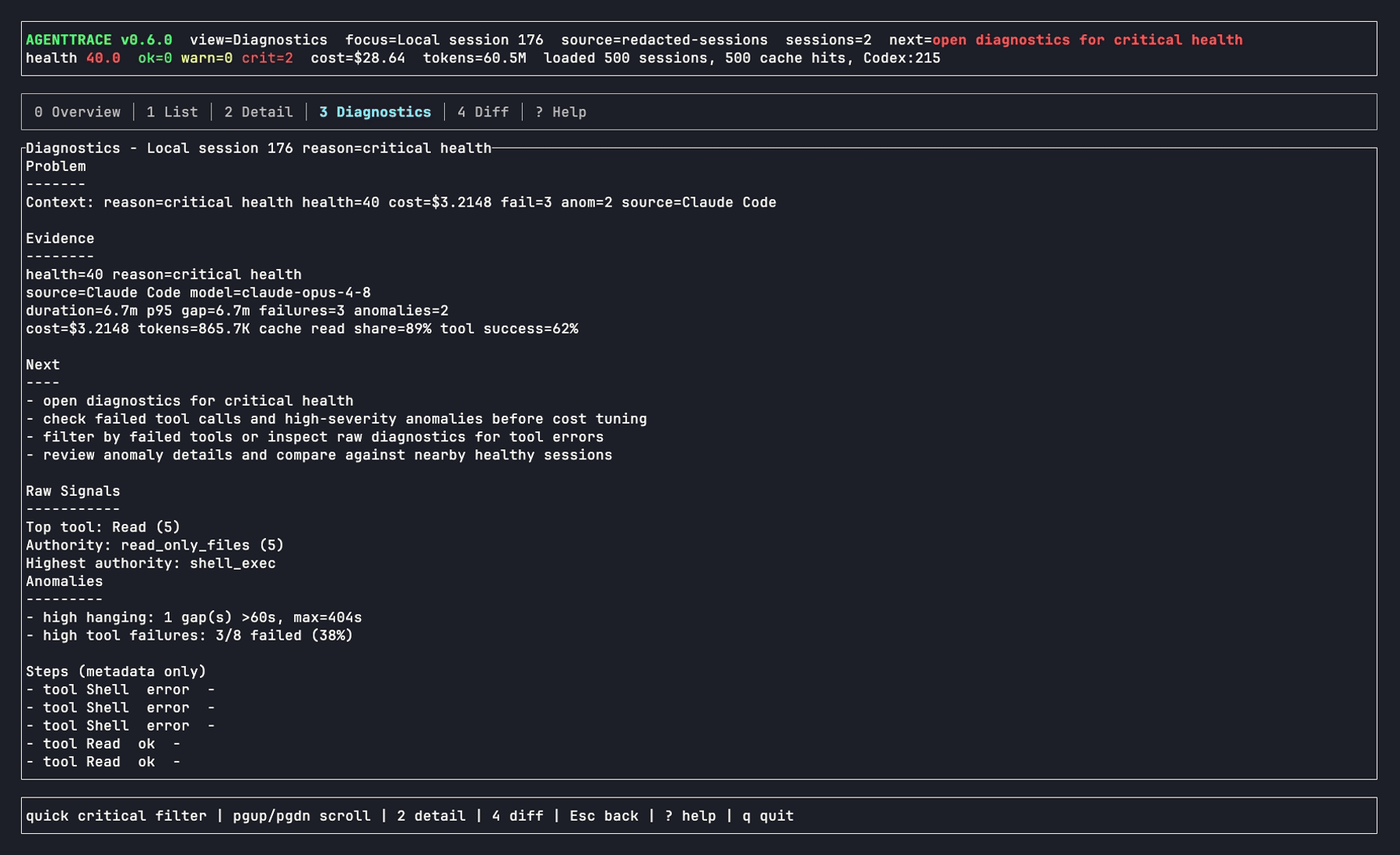
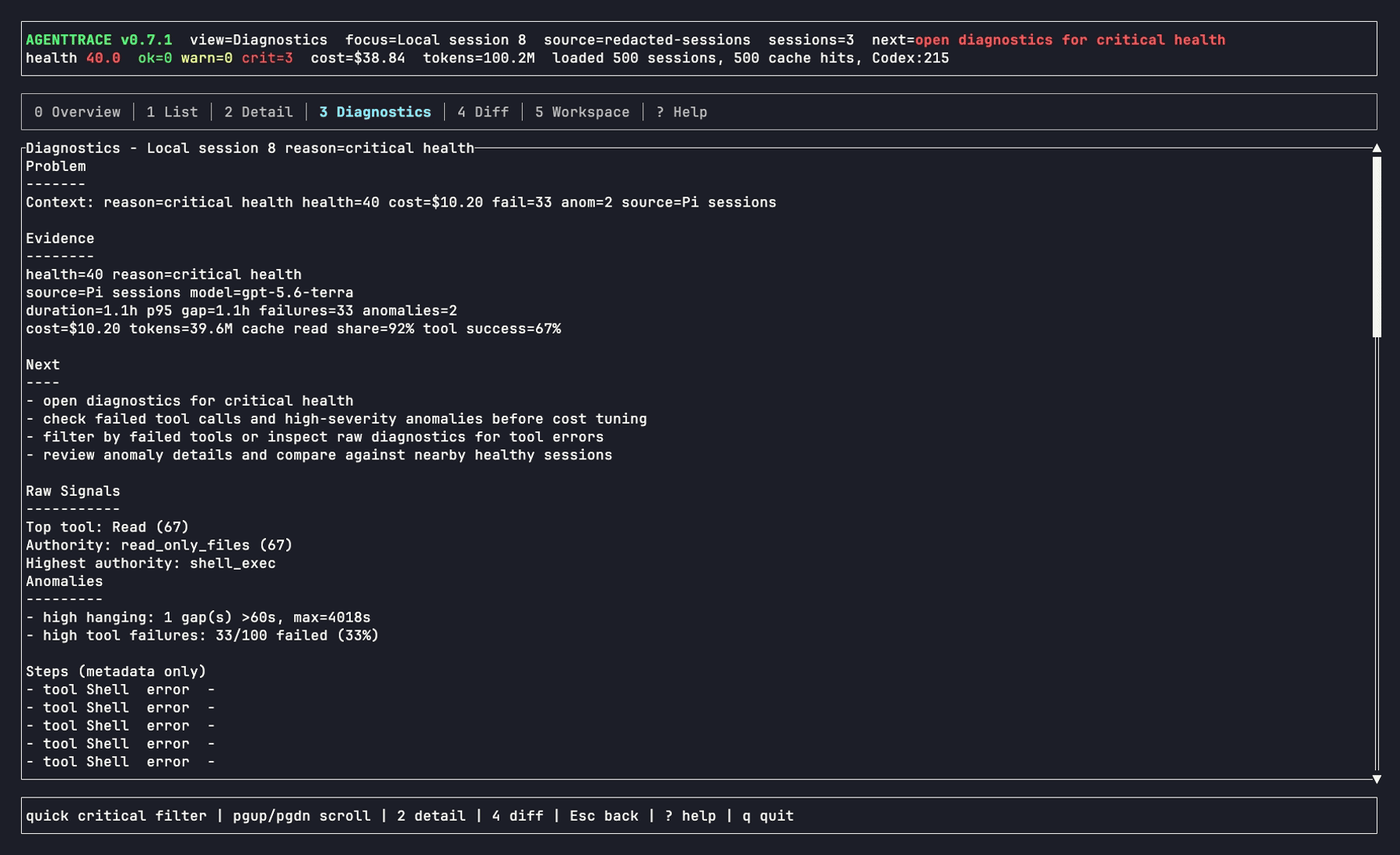
release: prepare v0.7.1 assets and metadata
Merge the validated v0.7.1 release metadata, redacted real-local-run assets, bilingual README, and Pages updates.

diff --git a/site/demo-report.html b/site/demo-report.html
@@ -18,136 +18,140 @@ section{border:1px solid var(--line);background:rgba(16,20,25,.78);padding:20px;
 <main>
 <header>
 <div><div class="brand">agenttrace</div><h1>AI agent session overview</h1><p>Static report generated from local coding-agent traces.</p></div>
-<div class="meta">v0.7.0<br>500 Sessions<br><code>agenttrace --overview -f html</code></div>
+<div class="meta">v0.7.1<br>500 Sessions<br><code>agenttrace --overview -f html</code></div>
 </header>
 <div class="grid" aria-label="summary metrics">
-<div class="metric"><span>Sessions</span><strong>500</strong><p>182 Healthy / 316 Warning / 2 Critical</p></div>
-<div class="metric"><span>Total tokens</span><strong>4.0B</strong><p>+ live</p></div>
-<div class="metric"><span>Average health</span><strong>77.7</strong><p>Fleet quality score</p></div>
-<div class="metric"><span>Total estimated cost</span><strong>$2.6K</strong><p>Estimated session cost</p></div>
-<div class="metric "><span>Tool failures</span><strong>469/16066</strong><p>2.9% failure rate</p></div>
+<div class="metric"><span>Sessions</span><strong>500</strong><p>190 Healthy / 307 Warning / 3 Critical</p></div>
+<div class="metric"><span>Total tokens</span><strong>4.7B</strong><p>+ live</p></div>
+<div class="metric"><span>Average health</span><strong>77.9</strong><p>Fleet quality score</p></div>
+<div class="metric"><span>Total estimated cost</span><strong>$2.7K</strong><p>Estimated session cost</p></div>
+<div class="metric "><span>Tool failures</span><strong>544/16112</strong><p>3.4% failure rate</p></div>
 </div>
 <section><h2>Tool authority</h2>
 <p><strong>Highest category</strong>: <code>shell_exec</code></p>
 <table><caption>Authority category counts</caption><thead><tr><th>Authority category</th><th class="num">Count</th></tr></thead><tbody>
-<tr><td><code>read_only_files</code></td><td class="num">15597</td></tr>
-<tr><td><code>shell_exec</code></td><td class="num">469</td></tr>
+<tr><td><code>read_only_files</code></td><td class="num">15568</td></tr>
+<tr><td><code>shell_exec</code></td><td class="num">544</td></tr>
 </tbody></table>
 <p><strong>High-authority tools</strong>: <code>Shell</code></p>
 </section>
 <section><h2>Possible cost drivers</h2><table><thead><tr><th>Session</th><th>Evidence</th></tr></thead><tbody>
-<tr><td>Local session 1</td><td>possible driver: 801.4K tokens per assistant turn across 1 turn(s)</td></tr>
-<tr><td>Local session 2</td><td>possible driver: 11.1M tokens per assistant turn across 11 turn(s)</td></tr>
-<tr><td>Local session 3</td><td>possible driver: 2.5M tokens per assistant turn across 5 turn(s)</td></tr>
-<tr><td>Local session 4</td><td>possible driver: 1.5M tokens per assistant turn across 4 turn(s)</td></tr>
-<tr><td>Local session 5</td><td>possible driver: 4.7M tokens per assistant turn across 1 turn(s)</td></tr>
-<tr><td>Local session 6</td><td>possible driver: 1.2M tokens per assistant turn across 6 turn(s)</td></tr>
-<tr><td>Local session 8</td><td>possible driver: 3.0M tokens per assistant turn across 10 turn(s)</td></tr>
-<tr><td>Local session 9</td><td>possible driver: 32.1M tokens per assistant turn across 1 turn(s)</td></tr>
+<tr><td>Local session 2</td><td>possible driver: 100.0K tokens per assistant turn across 100 turn(s)</td></tr>
+<tr><td>Local session 4</td><td>possible driver: 339.9K tokens per assistant turn across 100 turn(s)</td></tr>
+<tr><td>Local session 6</td><td>possible driver: 57.2K tokens per assistant turn across 34 turn(s)</td></tr>
+<tr><td>Local session 8</td><td>possible driver: 33/100 failed tool result(s) (33.0%)</td></tr>
+<tr><td>Local session 9</td><td>possible driver: 697.8K tokens per assistant turn across 1 turn(s)</td></tr>
+<tr><td>Local session 12</td><td>possible driver: 234.9K tokens per assistant turn across 100 turn(s)</td></tr>
+<tr><td>Local session 14</td><td>possible driver: 62.4K tokens per assistant turn across 18 turn(s)</td></tr>
+<tr><td>Local session 15</td><td>possible driver: 23.8M tokens per assistant turn across 7 turn(s)</td></tr>
 </tbody></table></section>
-<section><h2>Health Trend</h2><p>Health score stable at 72</p></section>
+<section><h2>Health Trend</h2><p>Declining: 88→88</p></section>
 <section><h2>Incident timeline</h2>
 <table><thead><tr><th>Session</th><th>Signal</th><th>Evidence</th><th>Severity</th></tr></thead><tbody>
-<tr><td>Local session 1</td><td>Last milestone</td><td>1 assistant turn(s) completed over 6.7m</td><td>LOW</td></tr>
-<tr><td>Local session 1</td><td>Longest idle gap</td><td>404.0s gap between recorded events</td><td>HIGH</td></tr>
-<tr><td>Local session 1</td><td>Touched surface</td><td>1 unique tool(s), 1 total calls; top tool Read x1</td><td>LOW</td></tr>
-<tr><td>Local session 1</td><td>Burn divergence</td><td>801.4K tokens per assistant turn across 1 turn(s)</td><td>MEDIUM</td></tr>
-<tr><td>Local session 2</td><td>Last milestone</td><td>11 assistant turn(s) completed over 4h 41m</td><td>LOW</td></tr>
-<tr><td>Local session 2</td><td>Longest idle gap</td><td>16916.0s gap between recorded events</td><td>HIGH</td></tr>
-<tr><td>Local session 2</td><td>Touched surface</td><td>1 unique tool(s), 11 total calls; top tool Read x11</td><td>LOW</td></tr>
-<tr><td>Local session 2</td><td>Burn divergence</td><td>11.1M tokens per assistant turn across 11 turn(s)</td><td>MEDIUM</td></tr>
-<tr><td>Local session 3</td><td>Last milestone</td><td>5 assistant turn(s) completed over 38.8m</td><td>LOW</td></tr>
-<tr><td>Local session 3</td><td>Longest idle gap</td><td>2327.0s gap between recorded events</td><td>HIGH</td></tr>
-<tr><td>Local session 3</td><td>Touched surface</td><td>1 unique tool(s), 5 total calls; top tool Read x5</td><td>LOW</td></tr>
-<tr><td>Local session 3</td><td>Burn divergence</td><td>2.5M tokens per assistant turn across 5 turn(s)</td><td>MEDIUM</td></tr>
-<tr><td>Local session 4</td><td>Last milestone</td><td>4 assistant turn(s) completed over 51.2m</td><td>LOW</td></tr>
-<tr><td>Local session 4</td><td>Longest idle gap</td><td>3073.0s gap between recorded events</td><td>HIGH</td></tr>
-<tr><td>Local session 4</td><td>Touched surface</td><td>1 unique tool(s), 4 total calls; top tool Read x4</td><td>LOW</td></tr>
-<tr><td>Local session 4</td><td>Burn divergence</td><td>1.5M tokens per assistant turn across 4 turn(s)</td><td>MEDIUM</td></tr>
-<tr><td>Local session 5</td><td>Last milestone</td><td>1 assistant turn(s) completed over 5h 15m</td><td>LOW</td></tr>
-<tr><td>Local session 5</td><td>Longest idle gap</td><td>18935.0s gap between recorded events</td><td>HIGH</td></tr>
-<tr><td>Local session 5</td><td>Burn divergence</td><td>4.7M tokens per assistant turn across 1 turn(s)</td><td>MEDIUM</td></tr>
-<tr><td>Local session 6</td><td>Last milestone</td><td>6 assistant turn(s) completed over 30.7m</td><td>LOW</td></tr>
-<tr><td>Local session 6</td><td>Longest idle gap</td><td>1840.0s gap between recorded events</td><td>HIGH</td></tr>
-<tr><td>Local session 6</td><td>Touched surface</td><td>1 unique tool(s), 6 total calls; top tool Read x6</td><td>LOW</td></tr>
-<tr><td>Local session 6</td><td>Burn divergence</td><td>1.2M tokens per assistant turn across 6 turn(s)</td><td>MEDIUM</td></tr>
-<tr><td>Local session 7</td><td>Last milestone</td><td>1 assistant turn(s) completed over 2.3m</td><td>LOW</td></tr>
-<tr><td>Local session 7</td><td>Longest idle gap</td><td>140.0s gap between recorded events</td><td>MEDIUM</td></tr>
-<tr><td>Local session 8</td><td>Last milestone</td><td>10 assistant turn(s) completed over 1h 49m</td><td>LOW</td></tr>
-<tr><td>Local session 8</td><td>Longest idle gap</td><td>6545.0s gap between recorded events</td><td>HIGH</td></tr>
-<tr><td>Local session 8</td><td>Touched surface</td><td>1 unique tool(s), 10 total calls; top tool Read x10</td><td>LOW</td></tr>
-<tr><td>Local session 8</td><td>Burn divergence</td><td>3.0M tokens per assistant turn across 10 turn(s)</td><td>MEDIUM</td></tr>
+<tr><td>Local session 1</td><td>Last milestone</td><td>9 assistant turn(s) completed over 2.0m</td><td>LOW</td></tr>
+<tr><td>Local session 1</td><td>Longest idle gap</td><td>118.0s gap between recorded events</td><td>MEDIUM</td></tr>
+<tr><td>Local session 1</td><td>Touched surface</td><td>1 unique tool(s), 9 total calls; top tool Read x9</td><td>LOW</td></tr>
+<tr><td>Local session 2</td><td>Last milestone</td><td>100 assistant turn(s) completed over 48.4m</td><td>LOW</td></tr>
+<tr><td>Local session 2</td><td>Longest idle gap</td><td>2902.0s gap between recorded events</td><td>HIGH</td></tr>
+<tr><td>Local session 2</td><td>Failure loop</td><td>13 failed tool result(s) out of 100 (13.0%)</td><td>MEDIUM</td></tr>
+<tr><td>Local session 2</td><td>Touched surface</td><td>2 unique tool(s), 100 total calls; top tool Read x87</td><td>LOW</td></tr>
+<tr><td>Local session 2</td><td>Burn divergence</td><td>100.0K tokens per assistant turn across 100 turn(s)</td><td>MEDIUM</td></tr>
+<tr><td>Local session 3</td><td>Last milestone</td><td>14 assistant turn(s) completed over 49s</td><td>LOW</td></tr>
+<tr><td>Local session 3</td><td>Longest idle gap</td><td>49.0s gap between recorded events</td><td>LOW</td></tr>
+<tr><td>Local session 3</td><td>Touched surface</td><td>1 unique tool(s), 14 total calls; top tool Read x14</td><td>LOW</td></tr>
+<tr><td>Local session 4</td><td>Last milestone</td><td>100 assistant turn(s) completed over 1h 14m</td><td>LOW</td></tr>
+<tr><td>Local session 4</td><td>Longest idle gap</td><td>4440.0s gap between recorded events</td><td>HIGH</td></tr>
+<tr><td>Local session 4</td><td>Failure loop</td><td>14 failed tool result(s) out of 100 (14.0%)</td><td>MEDIUM</td></tr>
+<tr><td>Local session 4</td><td>Touched surface</td><td>2 unique tool(s), 100 total calls; top tool Read x86</td><td>LOW</td></tr>
+<tr><td>Local session 4</td><td>Burn divergence</td><td>339.9K tokens per assistant turn across 100 turn(s)</td><td>MEDIUM</td></tr>
+<tr><td>Local session 5</td><td>Last milestone</td><td>26 assistant turn(s) completed over 1.7m</td><td>LOW</td></tr>
+<tr><td>Local session 5</td><td>Longest idle gap</td><td>101.0s gap between recorded events</td><td>MEDIUM</td></tr>
+<tr><td>Local session 5</td><td>Touched surface</td><td>2 unique tool(s), 26 total calls; top tool Read x25</td><td>LOW</td></tr>
+<tr><td>Local session 5</td><td>Burn divergence</td><td>12.5K tokens per assistant turn across 26 turn(s)</td><td>MEDIUM</td></tr>
+<tr><td>Local session 6</td><td>Last milestone</td><td>34 assistant turn(s) completed over 7.9m</td><td>LOW</td></tr>
+<tr><td>Local session 6</td><td>Longest idle gap</td><td>473.0s gap between recorded events</td><td>HIGH</td></tr>
+<tr><td>Local session 6</td><td>Failure loop</td><td>5 failed tool result(s) out of 34 (14.7%)</td><td>MEDIUM</td></tr>
+<tr><td>Local session 6</td><td>Touched surface</td><td>2 unique tool(s), 34 total calls; top tool Read x29</td><td>LOW</td></tr>
+<tr><td>Local session 6</td><td>Burn divergence</td><td>57.2K tokens per assistant turn across 34 turn(s)</td><td>MEDIUM</td></tr>
+<tr><td>Local session 7</td><td>Last milestone</td><td>51 assistant turn(s) completed over 1.7m</td><td>LOW</td></tr>
+<tr><td>Local session 7</td><td>Longest idle gap</td><td>102.0s gap between recorded events</td><td>MEDIUM</td></tr>
+<tr><td>Local session 7</td><td>Touched surface</td><td>1 unique tool(s), 51 total calls; top tool Read x51</td><td>LOW</td></tr>
+<tr><td>Local session 8</td><td>Last milestone</td><td>100 assistant turn(s) completed over 1h 6m</td><td>LOW</td></tr>
+<tr><td>Local session 8</td><td>Longest idle gap</td><td>4018.0s gap between recorded events</td><td>HIGH</td></tr>
+<tr><td>Local session 8</td><td>Failure loop</td><td>33 failed tool result(s) out of 100 (33.0%)</td><td>HIGH</td></tr>
+<tr><td>Local session 8</td><td>Touched surface</td><td>2 unique tool(s), 100 total calls; top tool Read x67</td><td>LOW</td></tr>
+<tr><td>Local session 8</td><td>Burn divergence</td><td>396.4K tokens per assistant turn across 100 turn(s)</td><td>MEDIUM</td></tr>
 </tbody></table>
 </section>
 <section><h2>Recent sessions</h2><table><thead><tr><th>Session</th><th>Source</th><th>Model</th><th class="num">Total tokens</th><th class="num">Cost</th><th class="num">Health</th><th class="num">Anomalies</th></tr></thead><tbody>
-<tr><td>Local session 1</td><td>Codex CLI</td><td>gpt-5.6-sol</td><td class="num">801.4K</td><td class="num">$0.7107</td><td class="num health-warn">70</td><td class="num">1</td></tr>
-<tr><td>Local session 2</td><td>Codex CLI</td><td>gpt-5.6-sol</td><td class="num">121.8M</td><td class="num">$18.16</td><td class="num health-warn">70</td><td class="num">1</td></tr>
-<tr><td>Local session 3</td><td>Codex CLI</td><td>gpt-5.6-luna</td><td class="num">12.3M</td><td class="num">$4.7401</td><td class="num health-warn">70</td><td class="num">1</td></tr>
-<tr><td>Local session 4</td><td>Codex CLI</td><td>gpt-5.6-luna</td><td class="num">6.1M</td><td class="num">$1.1556</td><td class="num health-warn">70</td><td class="num">1</td></tr>
-<tr><td>Local session 5</td><td>Codex CLI</td><td>gpt-5.6-luna</td><td class="num">4.7M</td><td class="num">$1.5482</td><td class="num health-warn">70</td><td class="num">1</td></tr>
-<tr><td>Local session 6</td><td>Codex CLI</td><td>gpt-5.6-luna</td><td class="num">7.5M</td><td class="num">$1.0671</td><td class="num health-warn">70</td><td class="num">1</td></tr>
-<tr><td>Local session 7</td><td>Codex CLI</td><td>gpt-5.6-luna</td><td class="num">1.1K</td><td class="num">$0.0033</td><td class="num health-good">88</td><td class="num">1</td></tr>
-<tr><td>Local session 8</td><td>Codex CLI</td><td>gpt-5.6-luna</td><td class="num">30.5M</td><td class="num">$6.3198</td><td class="num health-warn">70</td><td class="num">1</td></tr>
-<tr><td>Local session 9</td><td>Codex CLI</td><td>gpt-5.6-luna</td><td class="num">32.1M</td><td class="num">$2.8116</td><td class="num health-warn">70</td><td class="num">1</td></tr>
-<tr><td>Local session 10</td><td>Codex CLI</td><td>gpt-5.6-luna</td><td class="num">2.5M</td><td class="num">$0.7959</td><td class="num health-warn">70</td><td class="num">1</td></tr>
-<tr><td>Local session 11</td><td>Codex CLI</td><td>gpt-5.6-luna</td><td class="num">1.1M</td><td class="num">$0.5281</td><td class="num health-warn">70</td><td class="num">1</td></tr>
-<tr><td>Local session 12</td><td>Codex CLI</td><td>gpt-5.6-luna</td><td class="num">6.0M</td><td class="num">$2.0965</td><td class="num health-warn">70</td><td class="num">1</td></tr>
-<tr><td>Local session 13</td><td>Codex CLI</td><td>gpt-5.6-luna</td><td class="num">4.8M</td><td class="num">$1.5469</td><td class="num health-warn">70</td><td class="num">1</td></tr>
-<tr><td>Local session 14</td><td>Codex CLI</td><td>gpt-5.6-luna</td><td class="num">747.8K</td><td class="num">$0.5526</td><td class="num health-warn">70</td><td class="num">1</td></tr>
-<tr><td>Local session 15</td><td>Codex CLI</td><td>gpt-5.6-luna</td><td class="num">4.7M</td><td class="num">$1.4864</td><td class="num health-warn">70</td><td class="num">1</td></tr>
-<tr><td>Local session 16</td><td>Codex CLI</td><td>gpt-5.6-luna</td><td class="num">7.9M</td><td class="num">$2.0678</td><td class="num health-warn">70</td><td class="num">1</td></tr>
-<tr><td>Local session 17</td><td>Codex CLI</td><td>gpt-5.6-luna</td><td class="num">51.3M</td><td class="num">$11.71</td><td class="num health-warn">70</td><td class="num">1</td></tr>
-<tr><td>Local session 18</td><td>Codex CLI</td><td>gpt-5.6-luna</td><td class="num">2.0M</td><td class="num">$0.6909</td><td class="num health-good">88</td><td class="num">1</td></tr>
-<tr><td>Local session 19</td><td>Codex CLI</td><td>gpt-5.6-luna</td><td class="num">1.4M</td><td class="num">$0.6791</td><td class="num health-warn">70</td><td class="num">1</td></tr>
-<tr><td>Local session 20</td><td>Codex CLI</td><td>gpt-5.6-luna</td><td class="num">24.5M</td><td class="num">$5.3941</td><td class="num health-warn">70</td><td class="num">1</td></tr>
+<tr><td>Local session 1</td><td>Pi</td><td>gpt-5.6-terra</td><td class="num">60.9K</td><td class="num">$0.1485</td><td class="num health-good">88</td><td class="num">1</td></tr>
+<tr><td>Local session 2</td><td>Pi</td><td>gpt-5.6-terra</td><td class="num">10.0M</td><td class="num">$3.8721</td><td class="num health-warn">70</td><td class="num">1</td></tr>
+<tr><td>Local session 3</td><td>Pi</td><td>gpt-5.6-terra</td><td class="num">131.8K</td><td class="num">$0.2018</td><td class="num health-good">96</td><td class="num">1</td></tr>
+<tr><td>Local session 4</td><td>Pi</td><td>gpt-5.6-terra</td><td class="num">34.0M</td><td class="num">$3.4415</td><td class="num health-warn">70</td><td class="num">1</td></tr>
+<tr><td>Local session 5</td><td>Pi</td><td>gpt-5.6-terra</td><td class="num">326.2K</td><td class="num">$0.3335</td><td class="num health-good">88</td><td class="num">1</td></tr>
+<tr><td>Local session 6</td><td>Pi</td><td>gpt-5.6-terra</td><td class="num">1.9M</td><td class="num">$0.3393</td><td class="num health-warn">70</td><td class="num">1</td></tr>
+<tr><td>Local session 7</td><td>Pi</td><td>gpt-5.6-terra</td><td class="num">468.4K</td><td class="num">$0.4137</td><td class="num health-good">88</td><td class="num">1</td></tr>
+<tr><td>Local session 8</td><td>Pi</td><td>gpt-5.6-terra</td><td class="num">39.6M</td><td class="num">$10.20</td><td class="num health-bad">40</td><td class="num">2</td></tr>
+<tr><td>Local session 9</td><td>Codex CLI</td><td>gpt-5.6-sol</td><td class="num">697.8K</td><td class="num">$0.5859</td><td class="num health-good">88</td><td class="num">1</td></tr>
+<tr><td>Local session 10</td><td>Pi</td><td>gpt-5.6-terra</td><td class="num">185.9K</td><td class="num">$0.3003</td><td class="num health-good">88</td><td class="num">1</td></tr>
+<tr><td>Local session 11</td><td>Pi</td><td>gpt-5.6-terra</td><td class="num">439.1K</td><td class="num">$0.5267</td><td class="num health-good">88</td><td class="num">1</td></tr>
+<tr><td>Local session 12</td><td>Pi</td><td>gpt-5.6-terra</td><td class="num">23.5M</td><td class="num">$4.6641</td><td class="num health-warn">58</td><td class="num">2</td></tr>
+<tr><td>Local session 13</td><td>Pi</td><td>gpt-5.6-sol</td><td class="num">555.2K</td><td class="num">$0.1567</td><td class="num health-good">88</td><td class="num">1</td></tr>
+<tr><td>Local session 14</td><td>Pi</td><td>gpt-5.6-sol</td><td class="num">1.1M</td><td class="num">$0.4647</td><td class="num health-good">88</td><td class="num">1</td></tr>
+<tr><td>Local session 15</td><td>Codex CLI</td><td>gpt-5.6-sol</td><td class="num">166.6M</td><td class="num">$28.35</td><td class="num health-warn">70</td><td class="num">1</td></tr>
+<tr><td>Local session 16</td><td>Codex CLI</td><td>gpt-5.6-sol</td><td class="num">165.9M</td><td class="num">$28.08</td><td class="num health-warn">70</td><td class="num">1</td></tr>
+<tr><td>Local session 17</td><td>Codex CLI</td><td>gpt-5.6-sol</td><td class="num">165.5M</td><td class="num">$27.97</td><td class="num health-warn">70</td><td class="num">1</td></tr>
+<tr><td>Local session 18</td><td>Codex CLI</td><td>gpt-5.6-sol</td><td class="num">801.4K</td><td class="num">$0.7107</td><td class="num health-warn">70</td><td class="num">1</td></tr>
+<tr><td>Local session 19</td><td>Codex CLI</td><td>gpt-5.6-sol</td><td class="num">222.8M</td><td class="num">$36.16</td><td class="num health-warn">70</td><td class="num">1</td></tr>
+<tr><td>Local session 20</td><td>Codex CLI</td><td>gpt-5.6-luna</td><td class="num">12.3M</td><td class="num">$4.7401</td><td class="num health-warn">70</td><td class="num">1</td></tr>
 </tbody></table></section>
 <section><h2>By agent</h2><table><thead><tr><th>Agent</th><th class="num">Sessions</th><th class="num">Cost</th></tr></thead><tbody>
-<tr><td>Codex CLI</td><td class="num">215</td><td class="num">$1.9K</td></tr>
+<tr><td>Codex CLI</td><td class="num">215</td><td class="num">$2.0K</td></tr>
 <tr><td>Claude Code</td><td class="num">115</td><td class="num">$319.56</td></tr>
-<tr><td>Pi</td><td class="num">102</td><td class="num">$246.88</td></tr>
-<tr><td>Hermes Agent (DB)</td><td class="num">52</td><td class="num">$23.62</td></tr>
+<tr><td>Pi</td><td class="num">109</td><td class="num">$269.68</td></tr>
+<tr><td>Hermes Agent (DB)</td><td class="num">45</td><td class="num">$23.03</td></tr>
 <tr><td>workbuddy</td><td class="num">8</td><td class="num">$0.5499</td></tr>
 <tr><td>OpenCode (DB)</td><td class="num">5</td><td class="num">$26.50</td></tr>
 <tr><td>Generic JSON/JSONL</td><td class="num">3</td><td class="num">$0.0000</td></tr>
 </tbody></table></section>
 <section><h2>By model</h2><table><thead><tr><th>Model</th><th class="num">Sessions</th><th class="num">Cost</th></tr></thead><tbody>
-<tr><td>gpt-5.5</td><td class="num">149</td><td class="num">$1.7K</td></tr>
+<tr><td>gpt-5.5</td><td class="num">145</td><td class="num">$1.7K</td></tr>
 <tr><td>glm-5.2</td><td class="num">83</td><td class="num">$359.35</td></tr>
 <tr><td>gpt-5.6-luna</td><td class="num">43</td><td class="num">$197.86</td></tr>
+<tr><td>gpt-5.6-sol</td><td class="num">22</td><td class="num">$164.05</td></tr>
 <tr><td>mimo-v2.5-pro-ultraspeed</td><td class="num">89</td><td class="num">$150.86</td></tr>
-<tr><td>gpt-5.6-sol</td><td class="num">16</td><td class="num">$60.43</td></tr>
 <tr><td>claude-opus-4-8</td><td class="num">2</td><td class="num">$47.10</td></tr>
+<tr><td>gpt-5.6-terra</td><td class="num">14</td><td class="num">$28.36</td></tr>
 <tr><td>gpt-5.4</td><td class="num">5</td><td class="num">$14.64</td></tr>
-<tr><td>kimi-k2.7-code</td><td class="num">12</td><td class="num">$12.56</td></tr>
 <tr><td>claude-sonnet-5</td><td class="num">18</td><td class="num">$11.28</td></tr>
+<tr><td>kimi-k2.7-code</td><td class="num">9</td><td class="num">$9.7057</td></tr>
 <tr><td>kimi-k2.7-code-highspeed</td><td class="num">9</td><td class="num">$7.4208</td></tr>
-<tr><td>gpt-5.6-terra</td><td class="num">3</td><td class="num">$3.9158</td></tr>
 <tr><td>deepseek-v4-pro</td><td class="num">8</td><td class="num">$0.9617</td></tr>
 </tbody></table></section>
 <section><h2>Recent anomalies</h2>
 <table><thead><tr><th>Session</th><th>Type</th><th>Age</th></tr></thead><tbody>
-<tr><td>Local session 1</td><td>hanging</td><td>now</td></tr>
-<tr><td>Local session 10</td><td>hanging</td><td>now</td></tr>
-<tr><td>Local session 100</td><td>hanging</td><td>now</td></tr>
 <tr><td>Local session 101</td><td>hanging</td><td>now</td></tr>
 <tr><td>Local session 102</td><td>hanging</td><td>now</td></tr>
 <tr><td>Local session 104</td><td>hanging</td><td>now</td></tr>
-<tr><td>Local session 105</td><td>hanging</td><td>now</td></tr>
-<tr><td>Local session 106</td><td>hanging</td><td>now</td></tr>
-<tr><td>Local session 11</td><td>hanging</td><td>now</td></tr>
-<tr><td>Local session 110</td><td>hanging</td><td>now</td></tr>
+<tr><td>Local session 108</td><td>hanging</td><td>now</td></tr>
+<tr><td>Local session 109</td><td>hanging</td><td>now</td></tr>
 <tr><td>Local session 111</td><td>hanging</td><td>now</td></tr>
-<tr><td>Local session 114</td><td>hanging</td><td>now</td></tr>
+<tr><td>Local session 112</td><td>hanging</td><td>now</td></tr>
+<tr><td>Local session 116</td><td>hanging</td><td>now</td></tr>
 <tr><td>Local session 117</td><td>hanging</td><td>now</td></tr>
 <tr><td>Local session 118</td><td>hanging</td><td>now</td></tr>
 <tr><td>Local session 119</td><td>hanging</td><td>now</td></tr>
 <tr><td>Local session 12</td><td>hanging</td><td>now</td></tr>
+<tr><td>Local session 121</td><td>hanging</td><td>now</td></tr>
 <tr><td>Local session 122</td><td>hanging</td><td>now</td></tr>
 <tr><td>Local session 123</td><td>hanging</td><td>now</td></tr>
-<tr><td>Local session 125</td><td>hanging</td><td>now</td></tr>
 <tr><td>Local session 127</td><td>hanging</td><td>now</td></tr>
+<tr><td>Local session 128</td><td>hanging</td><td>now</td></tr>
+<tr><td>Local session 131</td><td>hanging</td><td>now</td></tr>
+<tr><td>Local session 134</td><td>hanging</td><td>now</td></tr>
+<tr><td>Local session 135</td><td>hanging</td><td>now</td></tr>
 </tbody></table>
 </section>
-</main>
+<section><h2>Scope and confidence</h2><table><tbody><tr><th>Range</th><td>all</td></tr><tr><th>Session window</th><td>2026-06-14T06:58:55Z → 2026-07-19T22:59:00Z</td></tr><tr><th>Parse coverage</th><td>500/500 parsed; 0 skipped; 0 cache hits</td></tr><tr><th>Confidence</th><td>low</td></tr><tr><th>Pricing</th><td>LiteLLM (stale cache 2026-05-04 21:41)</td></tr></tbody></table></section><section><h2>Prioritized recommendations</h2><table><thead><tr><th>Priority</th><th>Finding</th><th>Impact</th><th>Action</th></tr></thead><tbody><tr><td>P1</td><td>tool_failure: Tool failures increase wall time and often precede repeated work.</td><td>$10.6791; 0 tokens; high</td><td>Inspect arguments and results, then change the approach instead of retrying unchanged calls.</td></tr><tr><td>P1</td><td>latency: A tool exceeded the latency threshold or returned without a result.</td><td>$0.5653; 0 tokens; high</td><td>Set a timeout and batch independent work instead of serial retries.</td></tr><tr><td>P2</td><td>retry_loop: 99 repeated tool events or loop group(s) were detected.</td><td>$2.2350; 0 tokens; medium</td><td>Stop after two unchanged failures; inspect the failure boundary before retrying.</td></tr></tbody></table></section></main>
 </body>
 </html>

diff --git a/site/index.html b/site/index.html
@@ -30,7 +30,7 @@
         "applicationCategory": "DeveloperApplication",
         "applicationSubCategory": "AI agent session observability",
         "operatingSystem": "macOS, Linux, Windows",
-    "softwareVersion": "0.7.0",
+    "softwareVersion": "0.7.1",
         "description": "Local-first TUI and report generator for reviewing AI coding agent cost, tokens, health, latency, failures, baseline deltas, incident timelines, and tool authority evidence across historical sessions.",
         "keywords": "AI coding agent observability, Claude Code logs, Codex CLI logs, Gemini CLI sessions, Qwen Code sessions, Cline task history, Aider chat history, Cursor exports, Hermes Agent sessions, OpenCode storage, OpenClaw sessions, Pi sessions, Oh My Pi sessions, Kimi CLI traces, Copilot-style logs, generic JSON/JSONL traces, token cost tracking, local-first TUI",
         "featureList": [
@@ -95,7 +95,7 @@
         <div class="hero-visual" aria-label="agenttrace real local run dashboard preview">
           <div class="window-bar">
             <span></span><span></span><span></span>
-            <strong>agenttrace v0.7.0</strong>
+            <strong>agenttrace v0.7.1</strong>
           </div>
           <img src="assets/readme-real-overview.png" alt="agenttrace overview from a real local run with sessions, token cost, latency, and health" />
         </div>

diff --git a/homebrew/Formula/agenttrace.rb b/homebrew/Formula/agenttrace.rb
@@ -2,7 +2,7 @@ class Agenttrace < Formula
   desc "TUI observability for AI coding agent sessions, cost, latency, and anomalies"
   homepage "https://github.com/luoyuctl/agenttrace"
   url "https://github.com/luoyuctl/agenttrace.git", branch: "master"
-  version "0.7.0"
+  version "0.7.1"
   license "MIT"
 
   depends_on "rust" => :build
@@ -12,6 +12,6 @@ class Agenttrace < Formula
   end
 
   test do
-    assert_match "agenttrace v0.7.0", shell_output("#{bin}/agenttrace --version")
+    assert_match "agenttrace v0.7.1", shell_output("#{bin}/agenttrace --version")
   end
 end

diff --git a/README.md b/README.md
@@ -47,7 +47,7 @@ It helps you answer:
 
 ## Real local run
 
-These screenshots and figures are a redacted sample of the latest 500 real local sessions captured for the v0.7.0 source tree. They are not `--demo` output, current telemetry, or test fixtures.
+These screenshots and figures are a redacted sample of the latest 500 real local sessions captured for the v0.7.1 source tree. They are not `--demo` output, current telemetry, or test fixtures.
 
 ```bash
 agenttrace
@@ -64,7 +64,7 @@ agenttrace
 That local run found:
 
 ```text
-AGENTTRACE v0.7.0
+AGENTTRACE v0.7.1
 ```
 
 | Signal | What agenttrace found |
@@ -79,7 +79,7 @@ AGENTTRACE v0.7.0
 ## Install
 
 The commands below install the latest public channel, which can lag behind the
-`v0.7.0` source tree until its release assets and tap formula are published.
+`v0.7.1` source tree until its release assets and tap formula are published.
 Check the installed version with `agenttrace --version`. To test the current
 source tree, use the Git-based Cargo command below.
 

diff --git a/CHANGELOG.md b/CHANGELOG.md
@@ -1,5 +1,12 @@
 # Changelog
 
+## v0.7.1 - 2026-07-20
+
+### Changed
+
+- Refreshed the redacted real-local-run GIF, TUI screenshots, and static HTML overview evidence for the v0.7.1 release surface.
+- Updated release-facing metadata across the CLI, plugin, Homebrew Formula, README, Pages, and sample report.
+
 ## v0.7.0 - 2026-07-19
 
 ### Added
